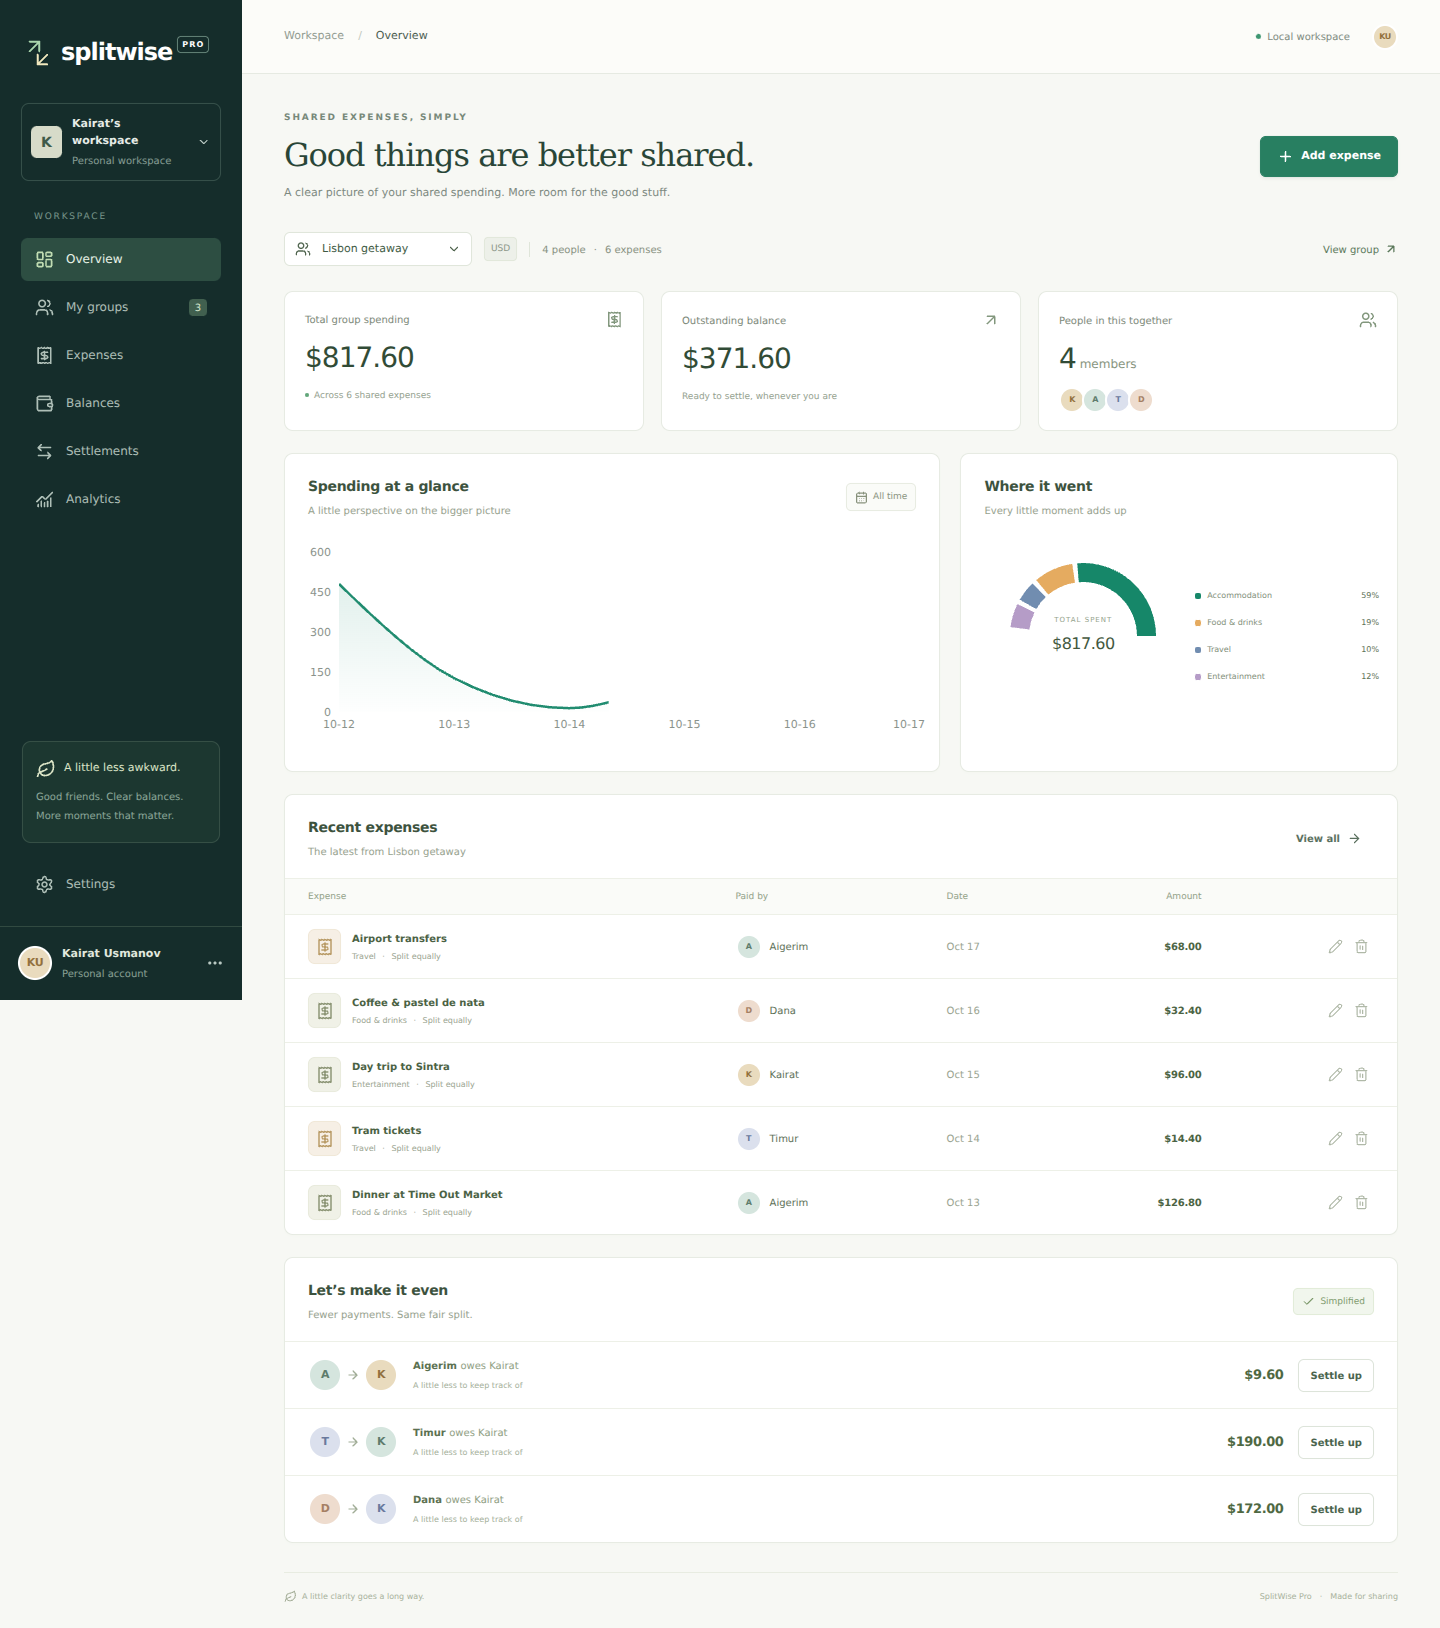
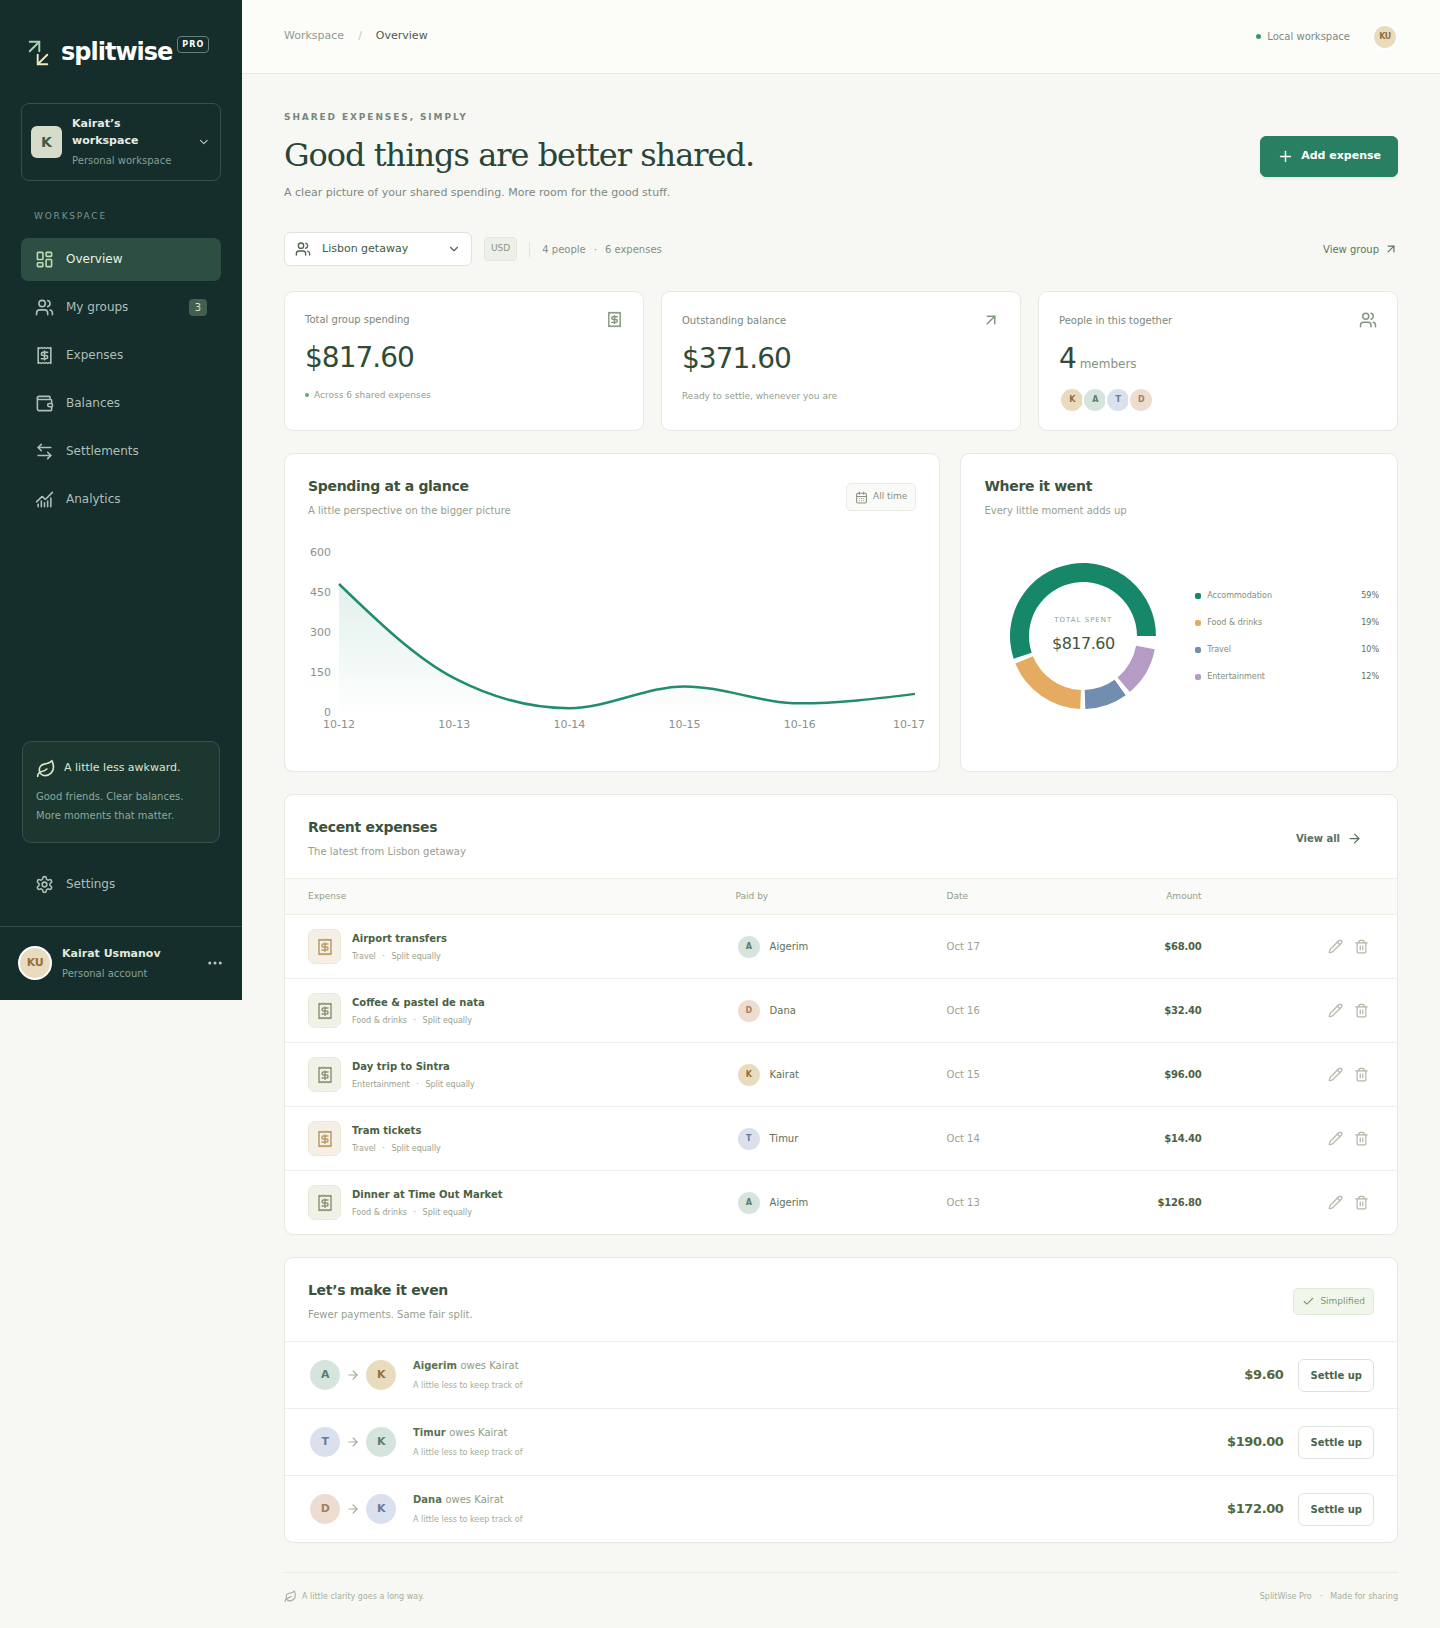
fix: anchor hidden table label to prevent mobile overflow (#34)

Changed region(s): [[0.6875, 0.3686, 0.8125, 0.43], [0.7188, 0.3378, 0.75, 0.3686]]

diff --git a/frontend/e2e/workflows.spec.ts b/frontend/e2e/workflows.spec.ts
@@ -1,21 +1,27 @@
 import { test, expect } from '@playwright/test';
-const navigate=async(page:any,name:string)=>{if(await page.getByRole('button',{name:'Open navigation'}).isVisible())await page.getByRole('button',{name:'Open navigation'}).click();await page.getByRole('link',{name,exact:true}).click();};
+const navigate=async(page:any,name:string)=>{if(await page.getByRole('button',{name:'Open navigation'}).isVisible())await page.getByRole('button',{name:'Open navigation'}).click();await page.getByRole('link',{name:new RegExp('^'+name)}).click();};
 test('shared expense lifecycle, validation, splits and partial settlement',async({page})=>{
  await page.goto('/');await expect(page.getByRole('heading',{name:'Good things are better shared.'})).toBeVisible();
  await navigate(page,'My groups');await page.getByRole('button',{name:'New group',exact:true}).click();await page.getByLabel('Group name').fill('QA trip');await page.getByRole('button',{name:'Create group',exact:true}).click();await expect(page.getByRole('dialog')).toHaveCount(0);await page.getByRole('button',{name:/QA trip/}).click();
  await expect(page.getByText('Good company starts here')).toBeVisible();
  for(const name of ['Alice','Bob','Carol']){await page.getByRole('button',{name:'Add member',exact:true}).click();await page.getByLabel('Member name').fill(name);await page.getByRole('dialog').getByRole('button',{name:'Add member',exact:true}).click();await expect(page.getByRole('dialog')).toHaveCount(0);}
  const expense=async(title:string,amount:string,method='Equally',values:string[]=[])=>{await page.getByRole('button',{name:'Add expense',exact:true}).click();const d=page.getByRole('dialog');await d.getByLabel('What was it for?').fill(title);await d.getByLabel('Amount (USD)',{exact:true}).fill(amount);await d.getByRole('button',{name:method,exact:true}).click();if(method!=='Equally')for(let i=0;i<3;i++)await d.getByLabel(`${['Alice','Bob','Carol'][i]} ${method==='Exact amounts'?'share':'percentage'}`).fill(values[i]);await d.getByRole('button',{name:'Add expense',exact:true}).click();};
- await expense('Uneven bill','1.00');await expect(page.getByRole('dialog')).toHaveCount(0);await expect(page.getByRole('cell',{name:'Uneven bill',exact:false})).toBeVisible();
+ await expense('Uneven bill','1.00');await expect(page.getByRole('dialog')).toHaveCount(0);await expect(page.getByRole('button',{name:'Edit Uneven bill',exact:true})).toBeVisible();
  await expense('Exact bill','3.00','Exact amounts',['1','1','0']);await expect(page.getByRole('alert')).toContainText('Exact shares must equal');await page.getByLabel('Carol share').fill('1');await page.getByRole('dialog').getByRole('button',{name:'Add expense',exact:true}).click();await expect(page.getByRole('dialog')).toHaveCount(0);
  await expense('Percentage bill','10.00','Percentages',['50','25','25']);await expect(page.getByRole('dialog')).toHaveCount(0);
  await page.getByRole('button',{name:'Edit Percentage bill'}).click();await page.getByLabel('What was it for?').fill('Percentage edited');await page.getByRole('button',{name:'Save changes',exact:true}).click();await expect(page.getByRole('dialog')).toHaveCount(0);await expect(page.getByRole('button',{name:'Edit Percentage edited'})).toBeVisible();
  page.on('dialog',d=>d.accept());await page.getByRole('button',{name:'Delete Exact bill'}).click();await expect(page.getByRole('button',{name:'Edit Exact bill'})).toHaveCount(0);
  await navigate(page,'Balances');await expect(page.getByRole('heading',{name:'A fair share for everyone'})).toBeVisible();await expect(page.locator('tbody tr').filter({hasText:'Alice'})).toContainText('+$5.66');
- await navigate(page,'Settlements');await page.getByRole('button',{name:'Record payment',exact:true}).first().click();await page.getByLabel('Who paid?',{exact:true}).selectOption({label:'Bob'});await page.getByLabel('Who received?',{exact:true}).selectOption({label:'Alice'});await page.getByLabel('Payment amount (USD)').fill('1.00');await page.getByLabel('Note (optional)').fill('QA partial');await page.getByRole('dialog').getByRole('button',{name:'Record payment',exact:true}).click();await expect(page.getByRole('dialog')).toHaveCount(0);await expect(page.getByRole('cell',{name:'QA partial'})).toBeVisible();
+ await navigate(page,'Settlements');await page.getByRole('button',{name:'Record payment',exact:true}).first().click();await page.getByLabel('Who paid?').selectOption({label:'Bob'});await page.getByLabel('Who received?').selectOption({label:'Alice'});await page.getByLabel('Payment amount (USD)').fill('1.00');await page.getByLabel('Note (optional)').fill('QA partial');await page.getByRole('dialog').getByRole('button',{name:'Record payment',exact:true}).click();await expect(page.getByRole('dialog')).toHaveCount(0);await expect(page.getByRole('cell',{name:'QA partial'})).toBeVisible();
  await navigate(page,'Analytics');await expect(page.getByRole('heading',{name:'Spending by category'})).toBeVisible();await expect(page.locator('.stat').first()).toContainText('$11.00');
 });
 test('desktop and mobile dashboard screenshots and layout',async({page})=>{
- await page.setViewportSize({width:1440,height:1000});await page.goto('/');await expect(page.getByRole('heading',{name:'Good things are better shared.'})).toBeVisible();await expect(page.locator('.stat').first()).toContainText('$817.60');await page.screenshot({path:'../_docs/screenshots/mock-desktop.png',fullPage:true});
- await page.setViewportSize({width:390,height:844});await expect(page.getByRole('button',{name:'Open navigation'})).toBeVisible();expect(await page.evaluate(()=>document.documentElement.scrollWidth<=window.innerWidth)).toBeTruthy();await page.screenshot({path:'../_docs/screenshots/mock-mobile.png',fullPage:true});await navigate(page,'My groups');await page.getByRole('button',{name:'New group',exact:true}).click();await expect(page.getByRole('dialog')).toBeVisible();await page.keyboard.press('Escape');await expect(page.getByRole('dialog')).toHaveCount(0);
+ await page.setViewportSize({width:1440,height:1000});await page.goto('/');await expect(page.getByRole('heading',{name:'Good things are better shared.'})).toBeVisible();await expect(page.locator('.stat').first()).toContainText('$817.60');await page.waitForTimeout(1600);await page.screenshot({path:'../_docs/screenshots/mock-desktop.png',fullPage:true});
+ await page.setViewportSize({width:390,height:844});await page.emulateMedia({reducedMotion:'reduce'});await page.waitForTimeout(500);await expect(page.getByRole('button',{name:'Open navigation'})).toBeVisible();expect(await page.evaluate(()=>document.documentElement.scrollWidth<=window.innerWidth)).toBeTruthy();await page.screenshot({path:'../_docs/screenshots/mock-mobile.png',fullPage:true});await navigate(page,'My groups');await page.getByRole('button',{name:'New group',exact:true}).click();await expect(page.getByRole('dialog')).toBeVisible();await page.keyboard.press('Escape');await expect(page.getByRole('dialog')).toHaveCount(0);
 });
+test('mutation error feedback and display preference reproduction',async({page})=>{
+ await page.goto('/groups/g1');await page.getByRole('button',{name:'Add member',exact:true}).click();await page.getByLabel('Member name').fill('Kairat');await page.getByRole('dialog').getByRole('button',{name:'Add member',exact:true}).click();await expect(page.getByRole('status',{includeHidden:true})).toContainText('A member with this name already exists.');console.log('DUPLICATE FEEDBACK',await page.getByRole('status',{includeHidden:true}).evaluate(e=>({class:e.className,color:getComputedStyle(e).color,icons:[...e.querySelectorAll('svg')].map(s=>s.getAttribute('class'))})));await page.keyboard.press('Escape');
+ await navigate(page,'Settings');await page.getByLabel('Display name').fill('QA Person');await page.getByRole('button',{name:'Save preferences'}).click();console.log('DISPLAY PREF',await page.getByLabel('Display name').inputValue(),'PROFILE',await page.locator('.profile').innerText());
+});
+
+test('mobile scroll regression on every screen',async({page})=>{await page.setViewportSize({width:390,height:844});for(const route of ['/','/groups','/groups/g1','/expenses','/balances','/settlements','/analytics','/settings']){await page.goto(route);await expect(page.locator('h1')).toBeVisible();await page.waitForTimeout(300);expect(await page.evaluate(()=>document.documentElement.scrollWidth),route).toBeLessThanOrEqual(390);}await page.goto('/expenses');await expect(page.getByRole('columnheader',{name:'Actions',exact:true})).toHaveCount(1);const scroll=page.locator('.table-scroll').first();expect(await scroll.evaluate(e=>{e.scrollLeft=10000;return e.scrollLeft})).toBeGreaterThan(0);await expect(page.getByRole('button',{name:'Edit Airport transfers'})).toBeVisible();});

diff --git a/frontend/playwright.config.ts b/frontend/playwright.config.ts
@@ -1,6 +1,6 @@
 import { defineConfig } from '@playwright/test';
 export default defineConfig({
  testDir:'./e2e', fullyParallel:false, workers:1, reporter:'list',
- use:{baseURL:'http://127.0.0.1:5173',headless:true,launchOptions:process.env.QA_CHROMIUM_PATH?{executablePath:process.env.QA_CHROMIUM_PATH,args:['--no-sandbox','--disable-dev-shm-usage','--disable-gpu','--single-process']}:{}},
+ use:{baseURL:'http://127.0.0.1:5173',headless:true,launchOptions:process.env.QA_CHROMIUM_PATH?{executablePath:process.env.QA_CHROMIUM_PATH,args:['--no-sandbox','--disable-dev-shm-usage','--disable-gpu']}:{}},
  webServer:{command:'npm run dev -- --host 127.0.0.1',url:'http://127.0.0.1:5173',reuseExistingServer:!process.env.CI},
 });

diff --git a/frontend/src/styles.css b/frontend/src/styles.css
@@ -659,6 +659,7 @@ h1 {
   font-weight: 500;
 }
 .table-scroll {
+  position: relative;
   overflow: auto;
 }
 table {

diff --git a/_docs/qa/mock-frontend.md b/_docs/qa/mock-frontend.md
@@ -1,0 +1,19 @@
+# Iteration 1 independent browser acceptance
+
+Mock interface acceptance: PASS for principal workflows; mobile defect #34 was observed and independently verified after its scoped fix. Additional mutation feedback and display preference issues were reported to root for PM grooming; these remain outside any full final acceptance claim.
+
+Executed actual Playwright browser via `QA_CHROMIUM_PATH=/tmp/chromium npx playwright test` from frontend. The committed runner uses a Vite webServer fixture because server processes in separate execution sessions were not reachable. Local bundled Chromium works without `--single-process`; that option initially caused later contexts to exit, an environment configuration issue corrected in the runner.
+
+Verified principal workflow (test passed 3.9s): create QA trip; empty-member state; add Alice/Bob/Carol; equal1.00 uneven split; reject exact3.00 allocated2.00; correct exact shares; percentage10.00 at50/25/25; edit description; confirmed expense deletion; Alice balance+5.66 after exact deletion; partial Bob→Alice1.00 settlement; history note; analytics total11.00.
+
+Screenshots: `_docs/screenshots/mock-desktop.png`, `_docs/screenshots/mock-mobile.png`. Captures wait for chart animation to finish. Desktop1440×1000; mobile390×844. Mobile navigation, group creation dialog and Escape dismissal verified.
+
+## Observed defect #34 and verification
+
+Initial stable390px viewport document.scrollWidth=498 vs innerWidth390. Table is intentionally scroll-contained but absolutely positioned screen-reader-only Actions header escaped its positioning context. Reproduced after500ms/reduced motion; real bug reported, PM groomed, engineer added positioning context to table container. QA regression passed across overview,groups,group-detail,expenses,balances,settlements,analytics,settings. Actions column retains accessible name; internal table scrollLeft>0 and edit action reachable. No global overflow hiding used.
+
+## Additional observed defects (pending IDs)
+
+Duplicate member Kairat on /groups/g1 produces text “A member with this name already exists.” in green `.toast`, computed rgb(77,121,65), circle-check icon. Toast lies outside modal and is aria-hidden while modal remains open; accessible role lookup requires includeHidden. Settings saves display name QA Person but sidebar still shows Kairat Usmanov. Root notified for real issue creation and PM scope/grooming; reproduction test records observations without claiming fix.
+
+Final independent rerun for this gate: Playwright4/4 passed13.9s (one test records pending defect observations, not fixed assertions); Vitest7/7 passed across2 files; `npm run build` exit0, Vite built2283 modules. Build emitted nonfatal large bundle warning808.55kB JS (243.77kB gzip). These results were actually executed after #34 fix.
